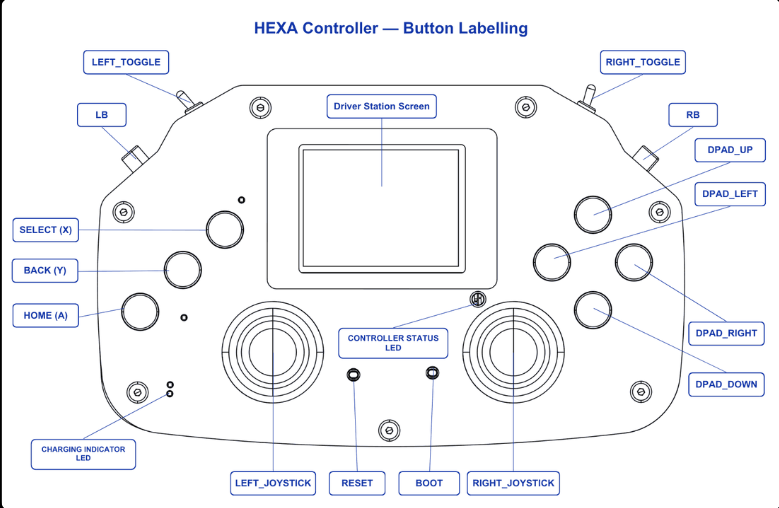
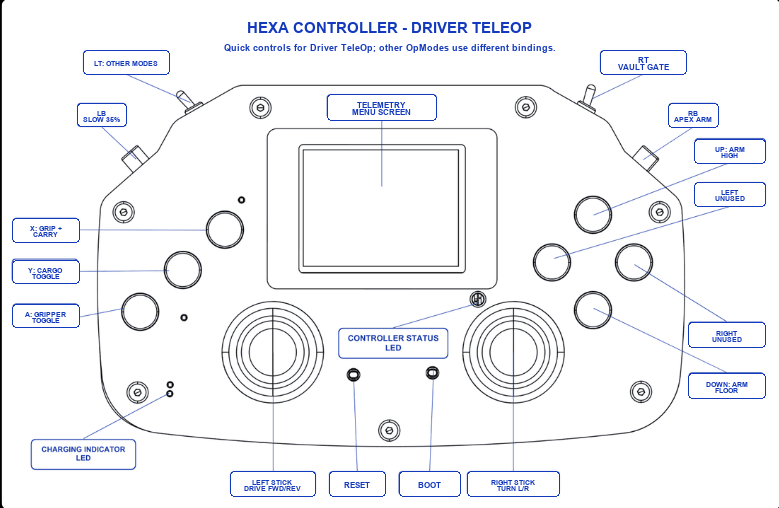
Label controller for Driver TeleOp

diff --git a/README.md b/README.md
@@ -420,13 +420,15 @@ Both devices communicate wirelessly via **ESP-NOW** — no WiFi router needed.
 
 ## Using the Hexa Controller with This Robot
 
-![Labeled Hexa controller buttons, joysticks, screen, indicators, and controls](docs/images/hexa-controller-controls.png)
+![Hexa controller quick guide for Driver TeleOp: stick driving, precision speed, arm, gripper, cargo bay, and vault controls](docs/images/hexa-controller-controls.png)
 
 ![Schematic overview of the controller, robot hub, drive, mechanisms, and sensors](docs/images/robot-system-overview.svg)
 
-The robot connections image is an original **logical schematic**, not an exact-to-scale hardware
-drawing. Controller labels and robot connections reflect this project's firmware. For additional
-NRL program and robot resources, see the [NRL Youth Dashboard](https://nrlportal.theinnovationstory.com/#/youth-dashboard).
+The controller image is a quick reference for **Driver TeleOp**; other OpModes can use different
+button bindings. The robot connections image is an original **logical schematic**, not an
+exact-to-scale hardware drawing. Controller labels and robot connections reflect this project's
+firmware. For additional NRL program and robot resources, see the
+[NRL Youth Dashboard](https://nrlportal.theinnovationstory.com/#/youth-dashboard).
 
 ### Connect and start a mode
 
